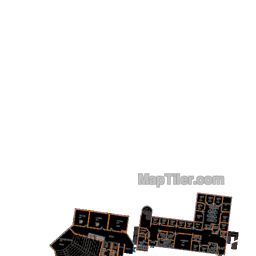
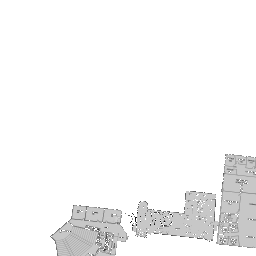
Style Overhaul
Removed the Google buildings so maps aren't overlaid on them! Combined maps, did coords, tons of editing etc.

Changed region(s): [[0.1875, 0.5938, 1.0, 1.0]]

diff --git a/map_mthelen.html b/map_mthelen.html
@@ -70,7 +70,35 @@ function init() {
         tilt:0,
         streetViewControl: false,
         center: new google.maps.LatLng(-37.626044, 143.891659),
-        zoom: 18
+        zoom: 18,
+        maxZoom: 20,
+        minZoom: 18,
+        styles: [
+      {
+        "featureType": "administrative.land_parcel",
+        "stylers": [
+          {
+            "visibility": "off"
+          }
+        ]
+      },
+      {
+        "featureType": "landscape.man_made",
+        "stylers": [
+          {
+            "visibility": "off"
+          }
+        ]
+      },
+      {
+        "featureType": "poi",
+        "stylers": [
+          {
+            "visibility": "off"
+          }
+        ]
+      }
+    ]
     };
     map = new google.maps.Map(document.getElementById("map"), opts);
     map.setMapTypeId('terrain');
